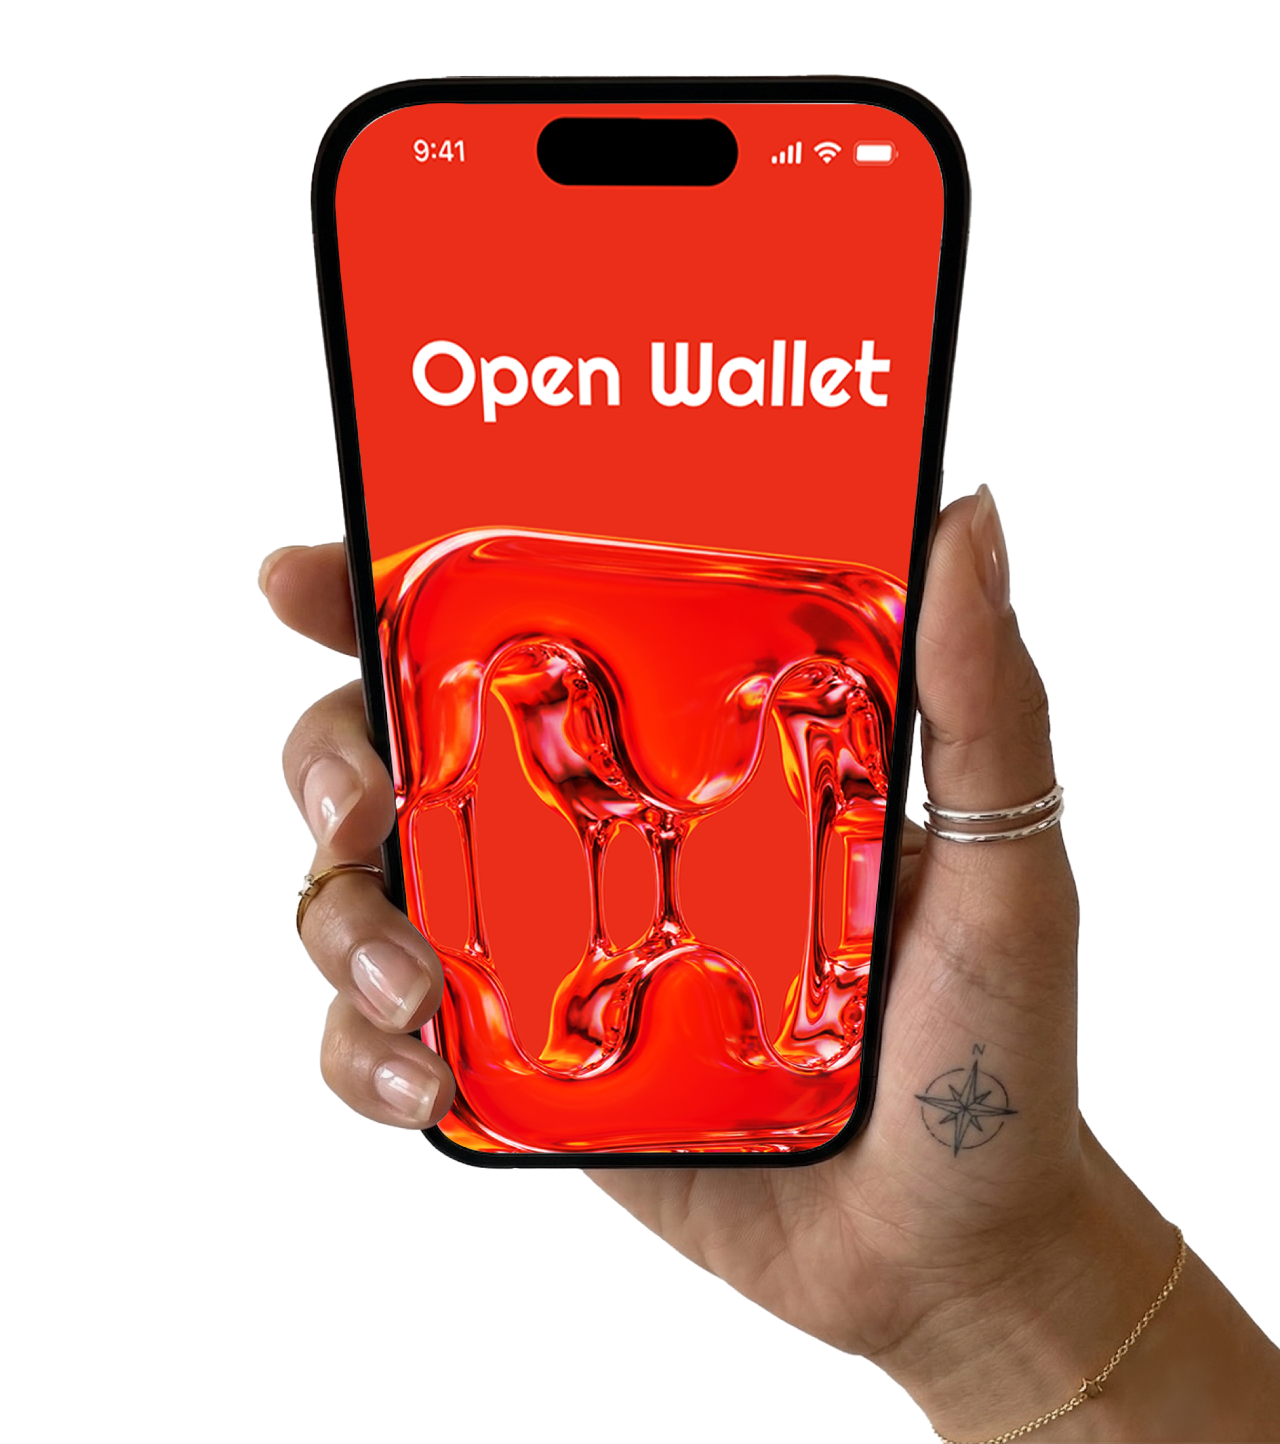
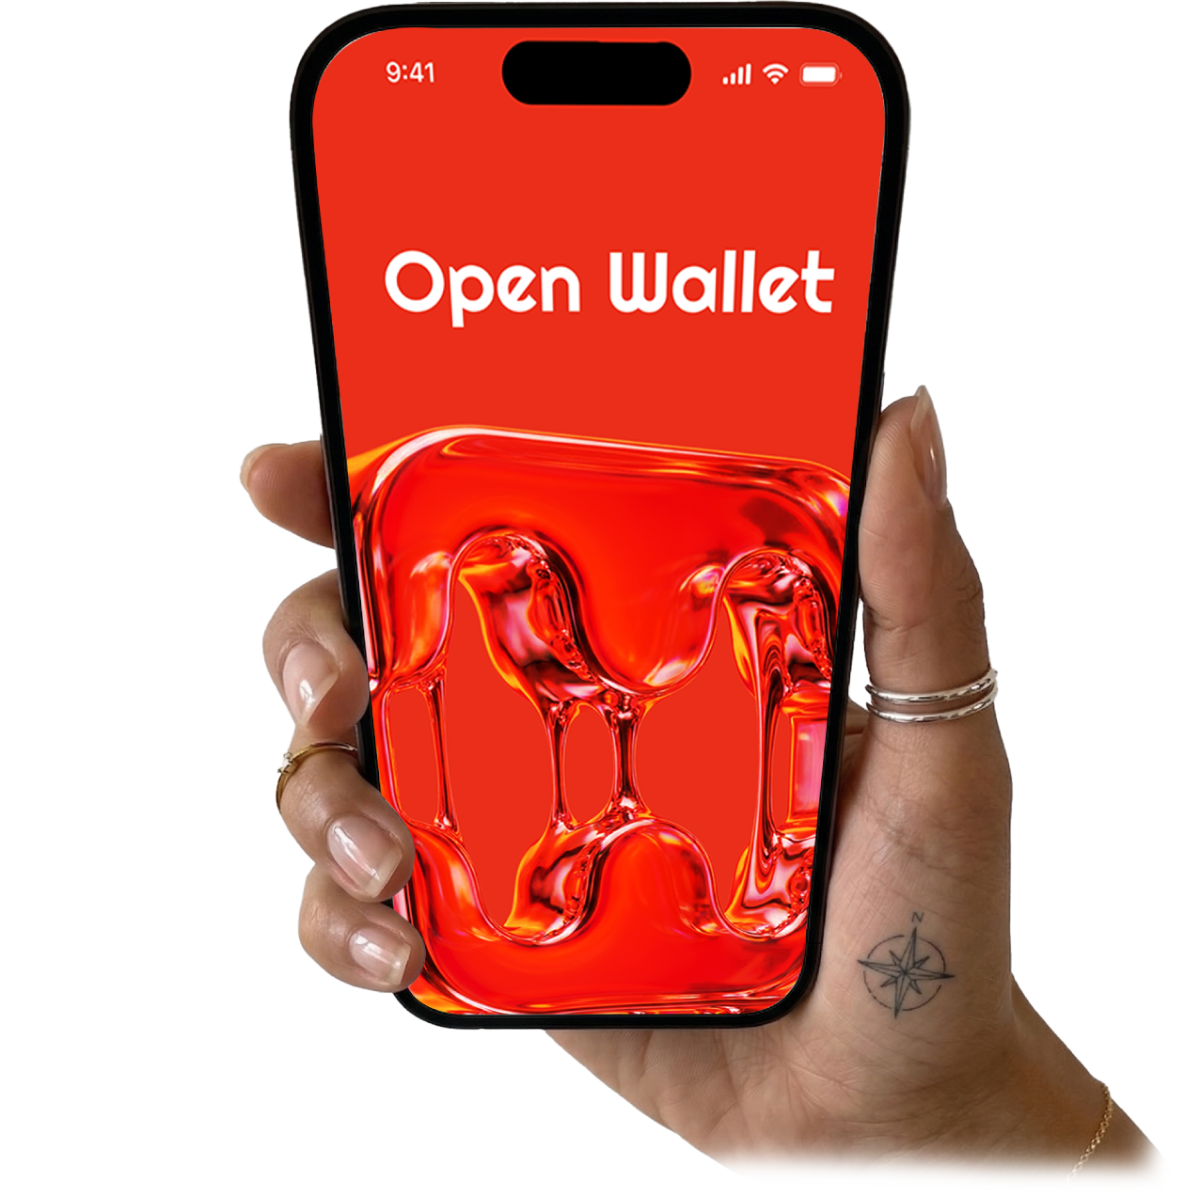
feat: hero section

Changed region(s): [[0.185, 0.0, 1.0, 1.0], [0.2467, 0.1546, 0.2775, 0.2782]]

diff --git a/app/(marketing)/_components/hero-section.tsx b/app/(marketing)/_components/hero-section.tsx
@@ -23,7 +23,7 @@ export async function HeroSection({cardCount, bankCount}: { cardCount: number; b
                 Mobile: collapses to phone only + stat row below.
             */}
             <div
-                className="w-full h-[480px] md:h-[600px] lg:h-[700px] flex justify-center px-6">
+                className="w-full h-[340px] md:h-[600px] lg:h-[700px] flex justify-center px-6 relative">
 
                 {/* ── LEFT COLUMN ── */}
                 <div className="hidden md:block w-[240px] lg:w-[320px] h-[500px] relative">
@@ -58,15 +58,22 @@ export async function HeroSection({cardCount, bankCount}: { cardCount: number; b
 
                 {/* ── CENTER: phone ── */}
                 <div
-                    className="w-full max-w-[320px] md:max-w-[480px] lg:max-w-[620px] aspect-[6/7] relative before:content-[''] before:absolute before:bottom-0 before:left-0 before:right-0 before:h-[200px] before:bg-gradient-to-t before:from-white before:to-transparent before:z-10">
+                    className="w-full max-w-[320px] md:max-w-[480px] lg:max-w-[620px] aspect-square relative before:content-[''] before:absolute before:bottom-0 before:left-0 before:right-0 before:h-[200px] before:bg-gradient-to-t before:from-white before:to-transparent before:z-10">
                     <Image
                         src="/hero-mockup.png"
                         alt="Open Wallet app on phone"
-                        width={320}
-                        height={570}
+                        width={1200}
+                        height={1200}
                         className="w-full h-full object-contain"
                         priority
                     />
+                </div>
+
+                <div
+                    className="ow-headline z-20 absolute left-1/2 -translate-x-1/2 md:top-1/2 max-md:bottom-0 w-full md:max-w-[500px] max-w-[320px] flex items-center justify-center md:p-6 p-4 bg-[rgba(124,124,124,0.4)] border border-[rgba(236,236,236,0.3)] backdrop-blur-[14px] rounded-full">
+                    <p className="font-body font-medium md:text-[22px] leading-[130%] text-white text-center">
+                        Tra cứu thẻ tín dụng. Quản lý thẻ. <br/>Theo dõi ngày sao kê và thanh toán.
+                    </p>
                 </div>
 
                 {/* ── RIGHT COLUMN ── */}
@@ -104,7 +111,7 @@ export async function HeroSection({cardCount, bankCount}: { cardCount: number; b
             </div>
 
             {/* Mobile stat row */}
-            <div className="flex md:hidden items-center gap-3 mt-4 mb-6">
+            <div className="flex md:hidden flex-wrap justify-center items-center gap-3 mt-4 mb-6">
                 <div className="flex items-center gap-1.5 bg-primary/10 rounded-full px-3 py-1.5">
                     <span className="text-sm font-bold text-primary">{cardCount}+</span>
                     <span className="text-xs text-text-muted">thẻ</span>
